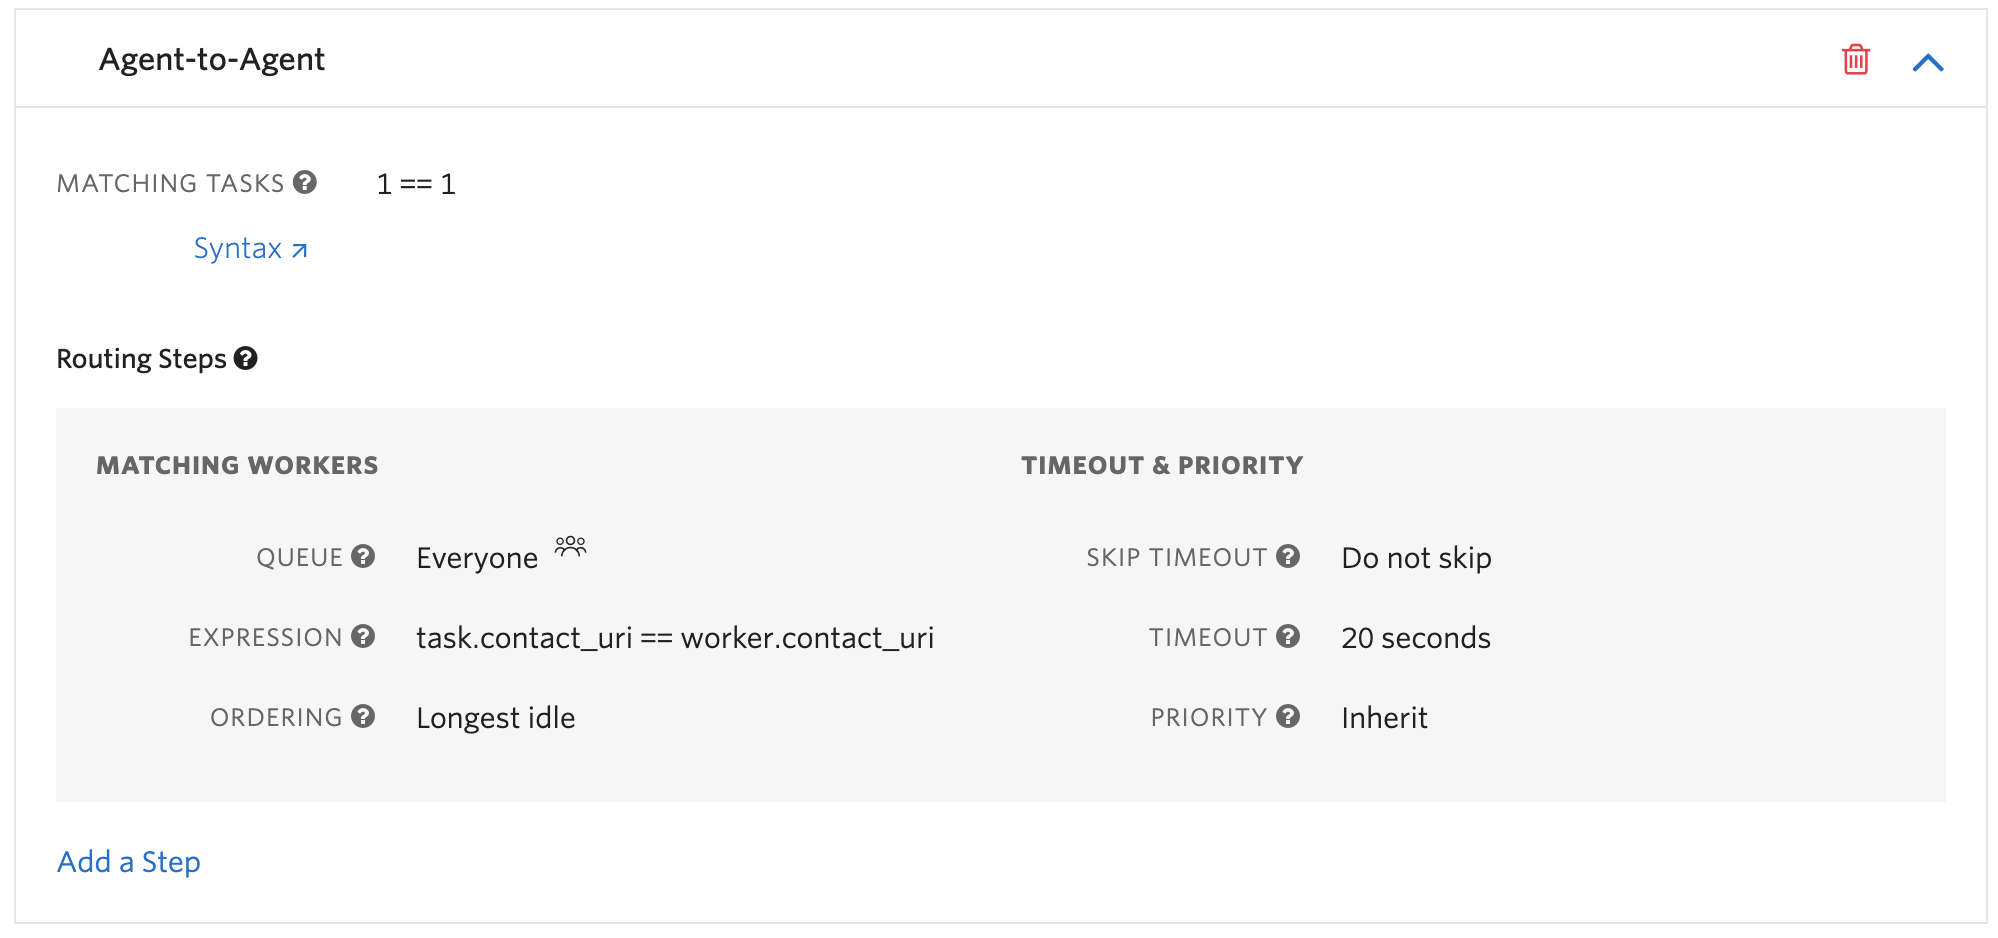
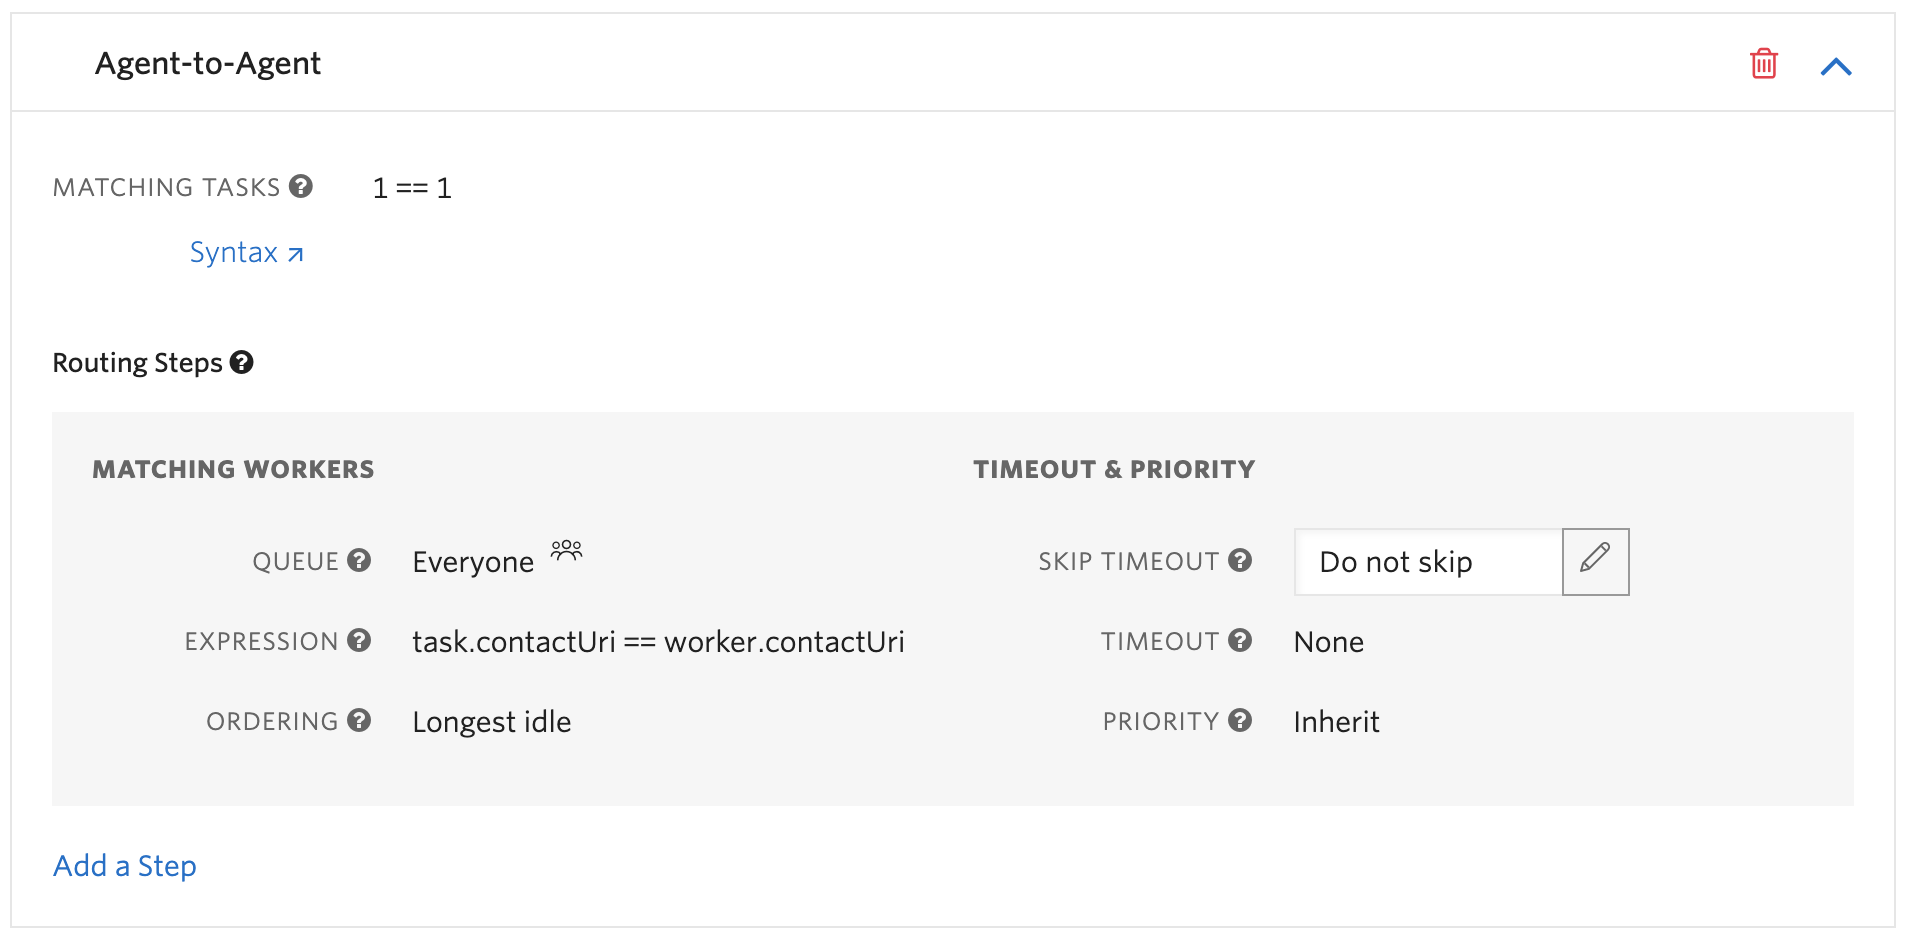
updated readme

diff --git a/README.md b/README.md
@@ -22,6 +22,7 @@ The function paths must match the function file names.
 Note the below functions need to have the Access Control checkbox, Check for valid Twilio signature unchecked.
 
 Flex Phone Initiate Call (/initiate-call)
+
 Flex Dialpad Hold Call (/hold-call)
 
 In the Function Configuration tab you will need to make your credentials available in your Function code by checking the `Enable ACCOUNT_SID and AUTH_TOKEN` option. Additionally, you will need to configure three environmental variables:
@@ -35,7 +36,7 @@ You will need to add the NPM package, `twilio-flex-token-validator`, as a Depend
 Task Router
 In the TaskRouter -> Task Channels, please verify that channel `custom1` exists. If not, please create it.
 
-Within your Workflow add a routing step with the expression `task.contact_uri == worker.contact_uri` to ensure the task for the outbound call is routed to the agent only who initiated the call.
+Within your Workflow add a routing step with the expression `task.contactUri == worker.contact_uri` to ensure the task for the outbound call is routed to the agent only who initiated the call.
 
 ![TaskRouter Worker Expression](flex-phone-agent-to-agent-worker-expression.png)
 
